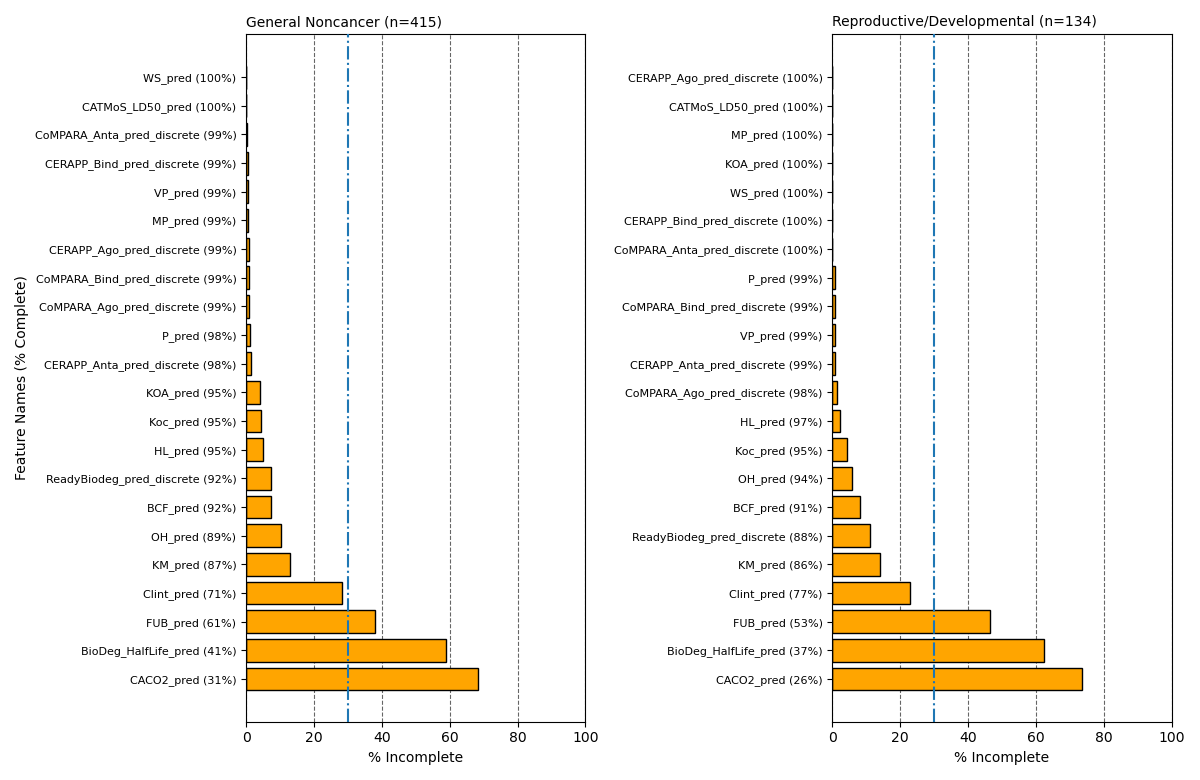
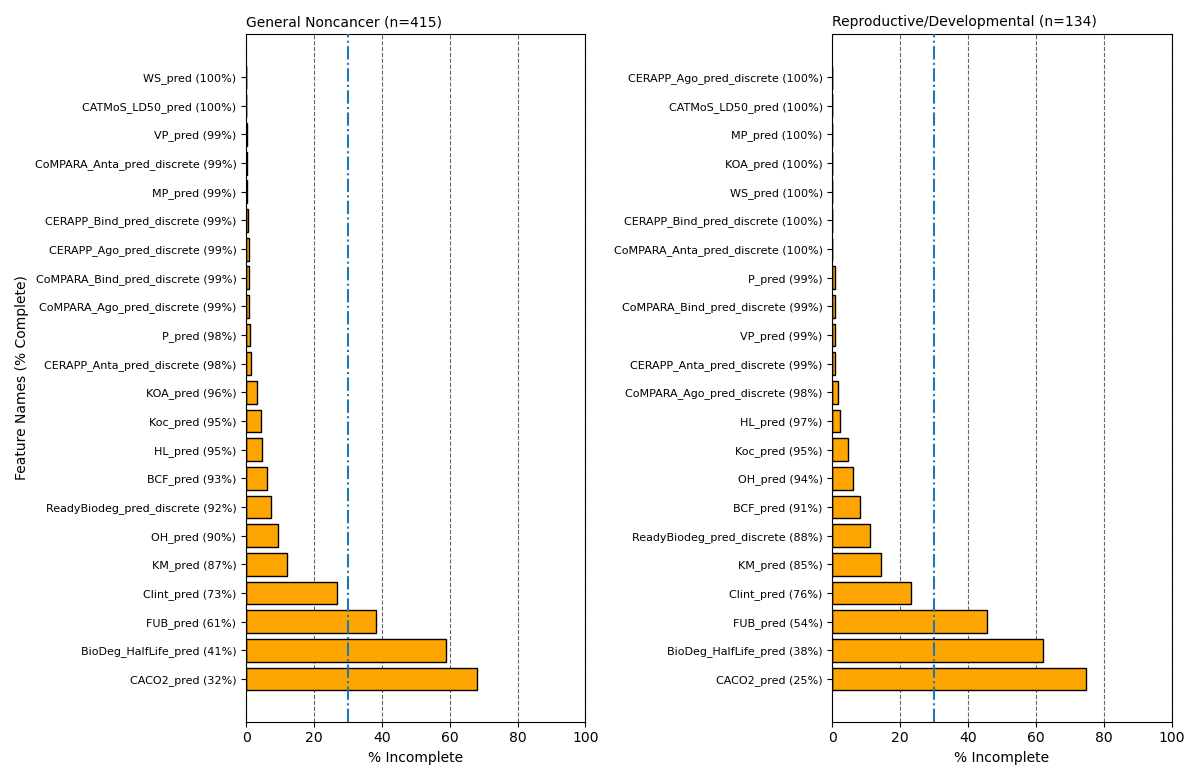
Fix duplicate OPERA applicability-domain rows

diff --git a/raw_processing/opera.py b/raw_processing/opera.py
@@ -128,7 +128,11 @@ def _perform_final_cleaning(predictions, AD_flags):
         logging.info(f'Dropped {sum(where_duplicated_idx)} duplicated rows')
 
     # Update the applicability domain flags
+    AD_flags = AD_flags.loc[
+        ~AD_flags.index.duplicated(keep='first')]
     AD_flags = AD_flags.loc[predictions.index]
+    if not predictions.index.equals(AD_flags.index):
+        raise ValueError('Prediction and AD indices are not aligned.')
 
     return predictions, AD_flags
 #endregion
